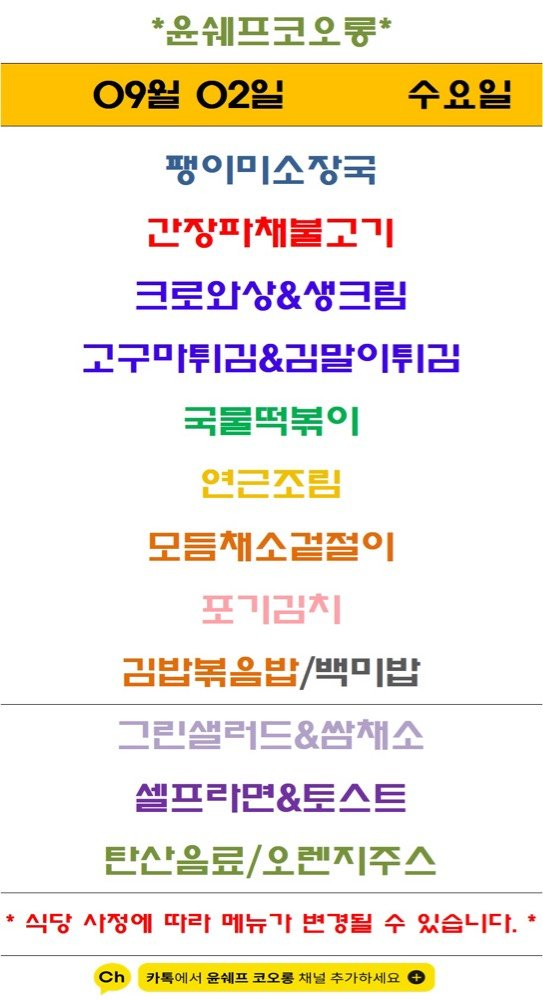
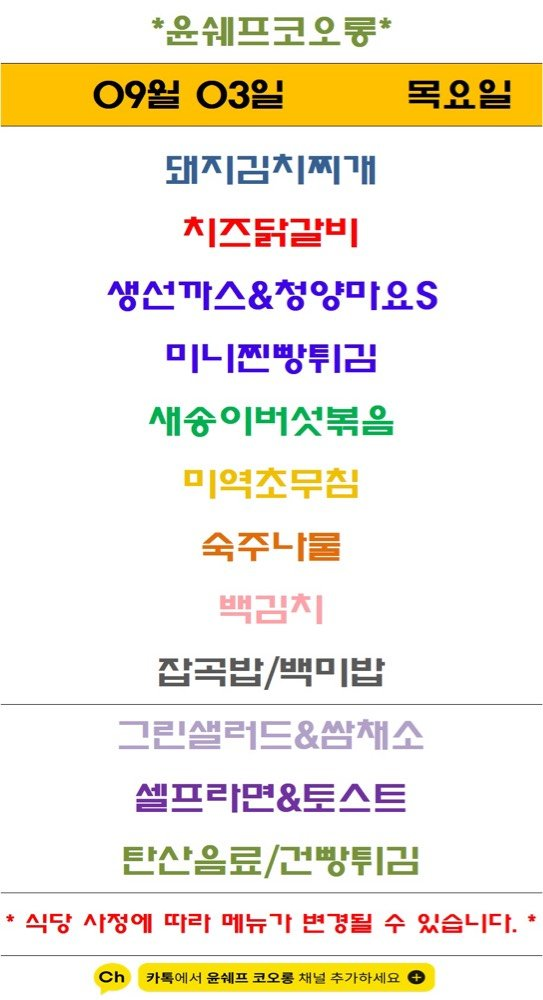
Update menu board assets

diff --git a/guro-menu/index.html b/guro-menu/index.html
@@ -32,7 +32,7 @@
   </header>
   <section class="meta">
     <div><small>기준 날짜</small><strong>2026년 9월 3일 목요일</strong></div>
-    <div><small>최종 갱신</small><strong>2026-09-03 09:18:30</strong></div>
+    <div><small>최종 갱신</small><strong>2026-09-03 09:33:24</strong></div>
     <div><small>등록 식당</small><strong>5개</strong></div>
   </section>
   <div class="notice">공개 카카오 채널의 메뉴 이미지를 자동 수집하고 OCR로 정리합니다. 텍스트에 오타가 있을 수 있으니 식단 이미지를 함께 확인해 주세요.</div>
@@ -103,8 +103,8 @@
           <a class="channel" href="https://pf.kakao.com/_Xxhxkhs" target="_blank" rel="noopener">원본 채널</a>
         </div>
         <img class="menu-image" src="./images/yoon-chef-kolon.png" alt="윤쉐프 코오롱 식단 이미지" loading="lazy">
-        <p class="message">최신 공개 식단 이미지의 텍스트입니다. 날짜는 원본 이미지를 확인해 주세요.</p>
-        <ul><li>팽이미소장국</li><li>관장파채불고기</li><li>크로완상&amp;생크림</li><li>고구마튀김&amp;거말이튀김</li><li>국물떡볶이</li><li>러밥볶음밥/백미밥</li><li>그린샐러드&amp;쌈채소</li><li>셀프라면&amp;토스트</li><li>탄산음료/오렌지주스</li></ul>
+        
+        <ul><li>댄지김치찌개</li><li>생선까스&amp;정양마요5</li><li>새송이버섯볶음</li><li>숙주나물</li><li>잡곡밥/백미밥</li><li>그린샐러드&amp;쌈채소</li><li>셀프라면&amp;토스트</li><li>탄산음료/건빵튀김</li></ul>
       </article>
   </section>
   <section class="seo" aria-label="검색 정보">한신IT타워 구내식당 자연푸드 구내식당 더이츠푸드 벽산더이룸 윤쉐프 코오롱 한신IT타워 벽산디지털밸리7차 대륭포스트타워1차 벽산디지털밸리1차 코오롱싸이언스밸리1차 서울 구로구 디지털로 272 한신IT타워 지하1층 서울 구로구 디지털로33길 50 벽산디지털밸리7차 지하1층 서울 구로구 디지털로 288 대륭포스트타워1차 지하1층 서울 구로구 디지털로27길 24 벽산디지털밸리1차 지하1층 서울 구로구 디지털로34길 43 코오롱싸이언스밸리1차 지하1층</section>

diff --git a/menu-today/index.html b/menu-today/index.html
@@ -209,7 +209,7 @@
 
     <section class="meta-bar">
       <div class="meta-card"><div class="meta-label">기준 날짜</div><div class="meta-value">2026년 9월 3일 목요일</div></div>
-      <div class="meta-card"><div class="meta-label">최종 가져온 시간</div><div class="meta-value">2026-09-03 09:18:14</div></div>
+      <div class="meta-card"><div class="meta-label">최종 가져온 시간</div><div class="meta-value">2026-09-03 09:33:10</div></div>
       <div class="meta-card"><div class="meta-label">확인 완료</div><div class="meta-value">9개 식당</div></div>
       <div class="meta-card"><div class="meta-label">준비중</div><div class="meta-value">3개 채널</div></div>
     </section>
